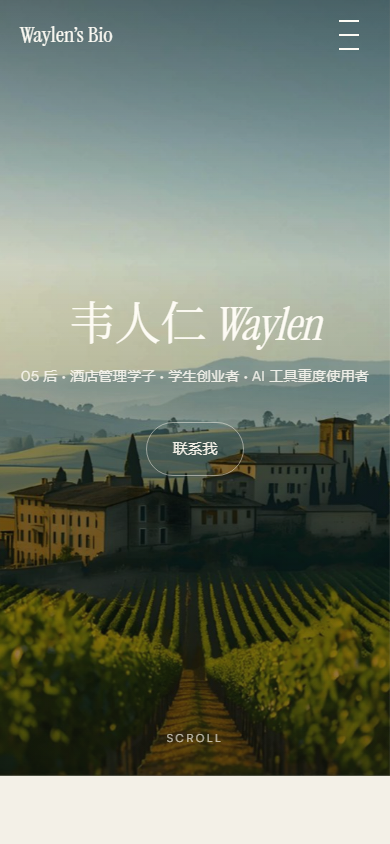
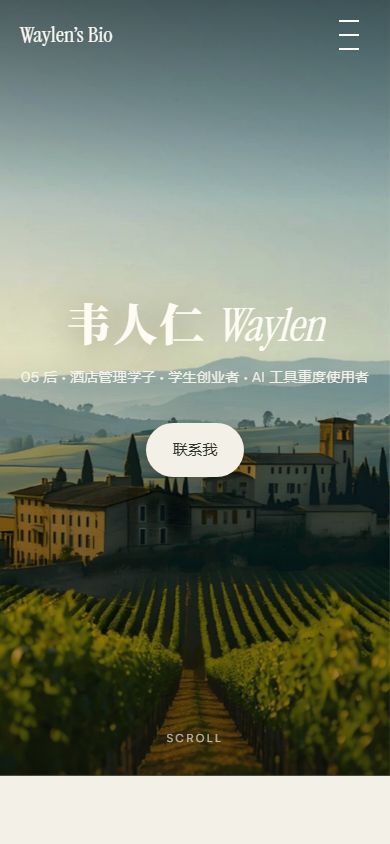
README: 补上线上地址与推送即部署说明

Changed region(s): [[0.0, 0.3389, 1.0, 0.4621], [0.3692, 0.4929, 0.6462, 0.5853]]

diff --git a/css/style.css b/css/style.css
@@ -31,6 +31,51 @@
   font-display: swap;
 }
 
+/* ---------- 中文艺术字体（只含「韦人仁」三字子集，每个 1–3 KB） ----------
+   默认启用：思源宋体 Black。想换风格只改 .hero__cn 的 font-family 即可，
+   下面几款已一并放在 fonts/ 里（都是同一批三字子集）：
+     01 毛笔书法   → "Ma Shan Zheng"        （ma-shan-zheng.woff2）
+     02 站酷小薇   → "ZCOOL XiaoWei"        （zcool-xiaowei.woff2）
+     03 厚重宋体   → "Noto Serif SC Black"  （noto-serif-sc-black.woff2，当前）
+     04 行书       → "Long Cang"            （long-cang.woff2）
+     05 硬笔行书   → "Zhi Mang Xing"        （zhi-mang-xing.woff2）
+   子集只覆盖 U+4EBA / U+4EC1 / U+97E6，用在别的字上会回落到系统字体。 */
+@font-face {
+  font-family: "ZCOOL XiaoWei";
+  src: url("../fonts/zcool-xiaowei.woff2") format("woff2");
+  font-weight: 400;
+  font-style: normal;
+  font-display: swap;
+}
+@font-face {
+  font-family: "Ma Shan Zheng";
+  src: url("../fonts/ma-shan-zheng.woff2") format("woff2");
+  font-weight: 400;
+  font-style: normal;
+  font-display: swap;
+}
+@font-face {
+  font-family: "Noto Serif SC Black";
+  src: url("../fonts/noto-serif-sc-black.woff2") format("woff2");
+  font-weight: 900;
+  font-style: normal;
+  font-display: swap;
+}
+@font-face {
+  font-family: "Long Cang";
+  src: url("../fonts/long-cang.woff2") format("woff2");
+  font-weight: 400;
+  font-style: normal;
+  font-display: swap;
+}
+@font-face {
+  font-family: "Zhi Mang Xing";
+  src: url("../fonts/zhi-mang-xing.woff2") format("woff2");
+  font-weight: 400;
+  font-style: normal;
+  font-display: swap;
+}
+
 /* ---------- 变量 ---------- */
 :root {
   --cream: #f3f0e7;
@@ -161,9 +206,11 @@ ul { margin: 0; padding: 0; list-style: none; }
   position: fixed;
   inset: 0 0 auto 0;
   z-index: 50;
-  display: flex;
+  display: grid;
+  /* 左品牌 / 中间导航 / 右按钮：两侧等宽，导航永远落在页面正中 */
+  grid-template-columns: 1fr auto 1fr;
   align-items: center;
-  gap: 24px;
+  column-gap: 24px;
   padding: 18px var(--pad);
   transition: background 0.4s var(--ease), padding 0.4s var(--ease), backdrop-filter 0.4s var(--ease);
 }
@@ -174,6 +221,7 @@ ul { margin: 0; padding: 0; list-style: none; }
   border-bottom: 1px solid var(--line);
 }
 .brand {
+  justify-self: start;
   font-family: var(--font-display);
   font-size: 22px;
   letter-spacing: 0.01em;
@@ -184,10 +232,12 @@ ul { margin: 0; padding: 0; list-style: none; }
 .site-header.is-stuck .brand { color: var(--ink); }
 
 .nav {
+  justify-self: center;
   display: flex;
   gap: 30px;
-  margin-inline: auto;
+  margin-inline: 0;
   font-size: 14.5px;
+  white-space: nowrap;
 }
 .nav a {
   position: relative;
@@ -214,7 +264,8 @@ ul { margin: 0; padding: 0; list-style: none; }
 .site-header.is-stuck .nav a.is-active { color: var(--ink); }
 
 .header-cta {
-  margin-left: auto;
+  justify-self: end;
+  margin-left: 0;
   background: transparent;
   border-color: rgba(253, 251, 244, 0.55);
   color: #fdfbf4;
@@ -317,6 +368,17 @@ ul { margin: 0; padding: 0; list-style: none; }
   text-wrap: balance;
 }
 .hero h1 em { font-style: italic; }
+
+/* 中文名字：艺术字体（思源宋体 Black / Noto Serif SC 900）+ 舒展字距，
+   与右侧 Instrument Serif 斜体同为衬线，粗细呼应；换成书法体见文件顶部字体注释 */
+.hero__cn {
+  font-family: "Noto Serif SC Black", "Songti SC", "STSong", serif;
+  font-weight: 900;
+  font-size: 0.96em;
+  letter-spacing: 0.05em;
+  margin-right: 0.05em;
+  text-shadow: 0 6px 34px rgba(8, 12, 8, 0.35);
+}
 .hero__sub {
   margin-top: 22px;
   font-size: clamp(14px, 1.4vw, 17px);
@@ -702,8 +764,8 @@ ul { margin: 0; padding: 0; list-style: none; }
 @media (max-width: 860px) {
   .nav,
   .header-cta { display: none; }
-  .burger { display: grid; margin-left: auto; }
-  .site-header { padding-block: 14px; }
+  .burger { display: grid; grid-column: 2; justify-self: end; margin-left: 0; }
+  .site-header { padding-block: 14px; grid-template-columns: 1fr auto; }
 
   .exp-item { grid-template-columns: 1fr; }
   .exp-item:nth-child(even) .exp-item__figure { order: 0; }

diff --git a/index.html b/index.html
@@ -49,7 +49,7 @@
       <img src="img/hero.jpg" alt="托斯卡纳乡间的葡萄园与庄园" fetchpriority="high">
     </div>
     <div class="hero__inner">
-      <h1>韦人仁 <em>Waylen</em></h1>
+      <h1><span class="hero__cn">韦人仁</span> <em>Waylen</em></h1>
       <p class="hero__sub">05 后 · 酒店管理学子 · 学生创业者 · AI 工具重度使用者</p>
       <a class="btn btn--ghost" href="#contact">联系我</a>
     </div>

diff --git a/README.md b/README.md
@@ -1,5 +1,9 @@
 # 韦人仁 Waylen · 个人主页（源码版）
 
+> **线上地址：https://waylen123.github.io/**
+> 仓库：https://github.com/Waylen123/Waylen123.github.io （公开）
+> 推送即部署：`git add -A && git commit -m "改动说明" && git push`，等 30 秒左右 GitHub Pages 自动重建。
+
 一份**完全手写**的静态站点：HTML + CSS + 原生 JS，没有框架、没有构建、没有 Framer 运行时。
 双击 `index.html` 能直接看（推荐用本地服务器预览，见下），也可以直接丢到 GitHub Pages。
 
